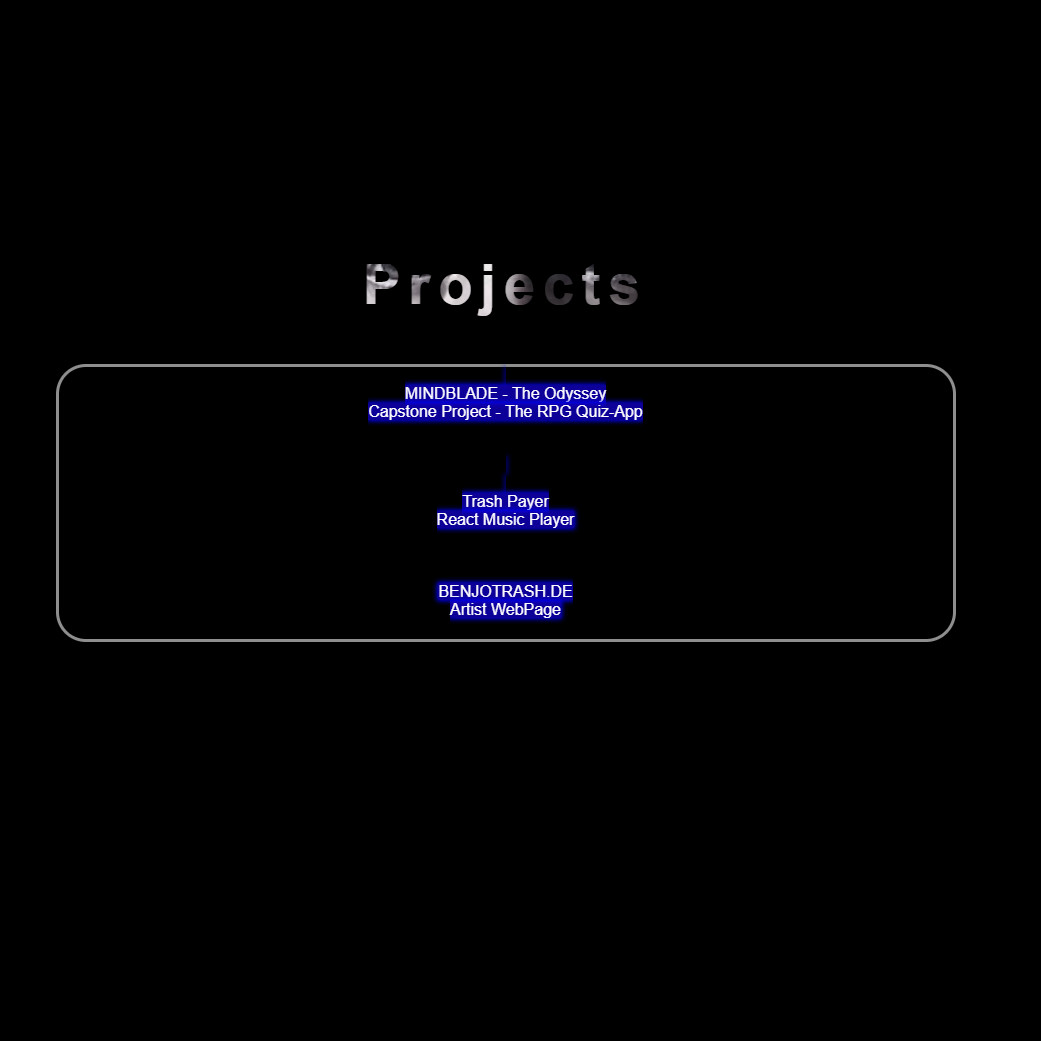
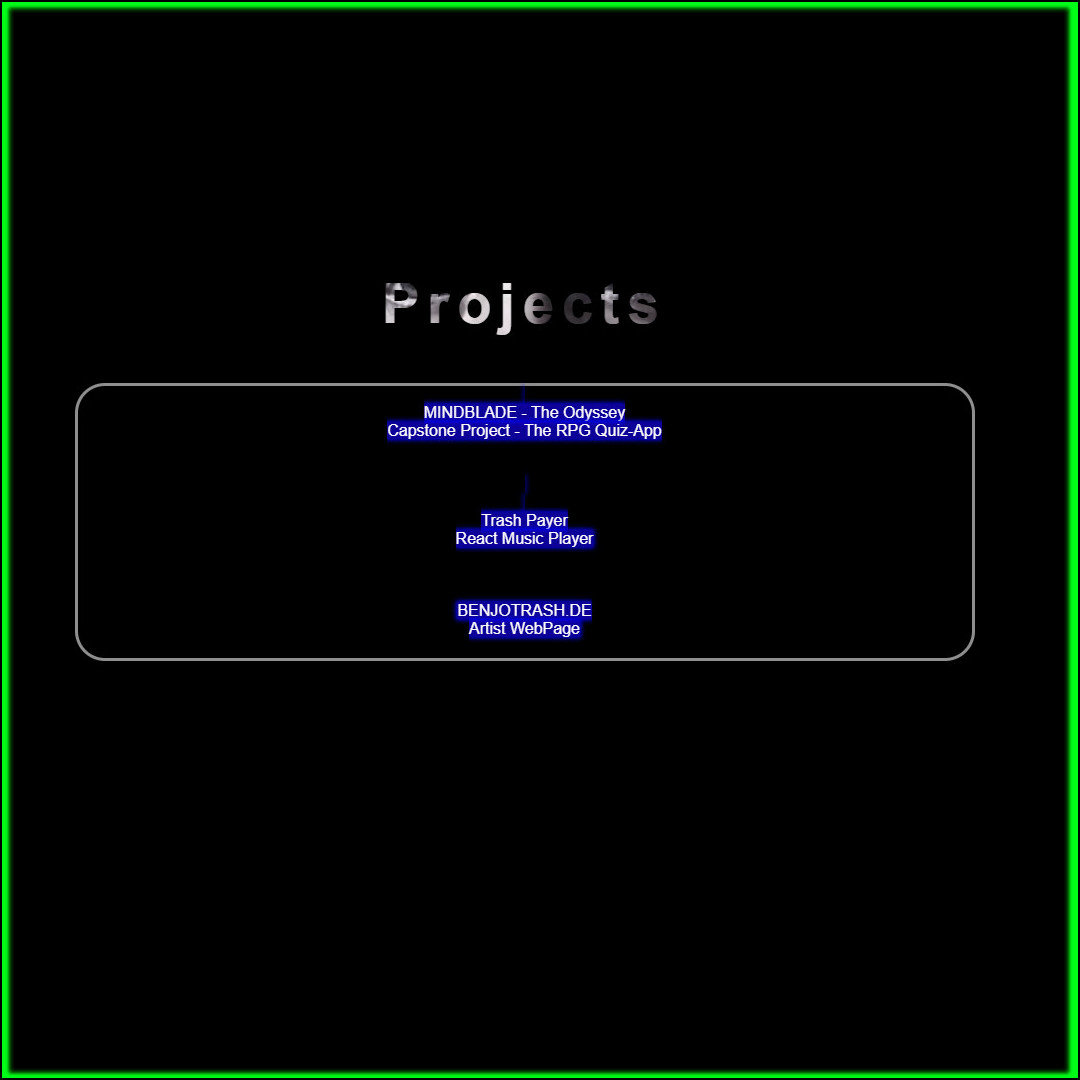
added green room

diff --git a/src/components/Title.js b/src/components/Title.js
@@ -4,11 +4,16 @@ import { useMemo } from 'react'
 
 const Title = () => {
   const texture = useMemo(() => new TextureLoader().load('./title.jpg'), []) // Load texture once and memoize
-
+  const texture2 = useMemo(() => new TextureLoader().load('./greenline.png'), []) // Load texture once and memoize
   return (
+    <>
     <Plane args={[5, 5]} scale={7} rotation-x={(0.0, -5.3, -0)} position={[0, 0, -60]}>
       <meshBasicMaterial attach='material' map={texture} />
     </Plane>
+    <Plane args={[5, 5]} scale={23} rotation-x={(0.0, -5.3, -0)} position={[0, 0, -60]}>
+    <meshBasicMaterial attach='material' map={texture2} transparent/>
+  </Plane>
+  </>
   )
 }
 

diff --git a/src/components/TechStack.js b/src/components/TechStack.js
@@ -4,11 +4,16 @@ import { useMemo } from 'react'
 
 const Tech = () => {
   const texture = useMemo(() => new TextureLoader().load('./tech.jpg'), []) // Load texture once and memoize
-
+  const texture2 = useMemo(() => new TextureLoader().load('./greenline.png'), [])
   return (
+    <>
     <Plane args={[5, 5]} scale={7} rotation-x={Math.PI} rotation-z={Math.PI} position={[0, 0, 54]}>
       <meshBasicMaterial attach='material' map={texture} />
     </Plane>
+    <Plane args={[5, 5]} scale={23} rotation-x={Math.PI} rotation-z={Math.PI} position={[0, 0, 54]}>
+      <meshBasicMaterial attach='material' map={texture2} transparent />
+    </Plane>
+    </>
   )
 }
 

diff --git a/src/components/Certificates.js b/src/components/Certificates.js
@@ -4,11 +4,16 @@ import { useMemo } from 'react'
 
 const Certificates = () => {
   const texture = useMemo(() => new TextureLoader().load('./zertifikate.jpg'), []) // Load texture once and memoize
-
+  const texture2 = useMemo(() => new TextureLoader().load('./greenline.png'), [])
   return (
+    <>
     <Plane args={[5, 5]} scale={7} rotation-x={Math.PI/2} position={[0, 57.5, -3]}>
       <meshBasicMaterial attach='material' map={texture} />
     </Plane>
+       <Plane args={[5, 5]} scale={23} rotation-x={Math.PI/2} position={[0, 57.5, -3]}>
+       <meshBasicMaterial attach='material' map={texture2} transparent />
+     </Plane>
+     </>
   )
 }
 

diff --git a/src/components/Contact.js b/src/components/Contact.js
@@ -4,11 +4,16 @@ import { useMemo } from 'react'
 
 const Contact = () => {
   const texture = useMemo(() => new TextureLoader().load('./contact.jpg'), []) // Load texture once and memoize
-
+  const texture2 = useMemo(() => new TextureLoader().load('./greenline.png'), [])
   return (
+    <>
     <Plane args={[5, 5]} scale={7} rotation-x={-Math.PI/2} position={[0, -37.5, -3]}>
       <meshBasicMaterial attach='material' map={texture} />
     </Plane>
+    <Plane args={[5, 5]} scale={14.1} rotation-x={-Math.PI/2} position={[0, -35, -1.8]}>
+      <meshBasicMaterial attach='material' map={texture2} transparent/>
+    </Plane>
+    </>
   )
 }
 

diff --git a/src/components/About.js b/src/components/About.js
@@ -4,11 +4,16 @@ import { useMemo } from 'react'
 
 const About = () => {
   const texture = useMemo(() => new TextureLoader().load('./about.jpg'), []) // Load texture once and memoize
-
+  const texture2 = useMemo(() => new TextureLoader().load('./greenline.png'), [])
   return (
+    <>
     <Plane args={[5, 5]} scale={7} rotation-y={-Math.PI / 2} position={[60, -0, -3]}>
       <meshBasicMaterial attach='material' map={texture} />
     </Plane>
+    <Plane args={[5, 5]} scale={24} rotation-y={-Math.PI / 2} position={[59.5, -0, -3]}>
+      <meshBasicMaterial attach='material' map={texture2} transparent />
+    </Plane>
+    </>
   )
 }
 
